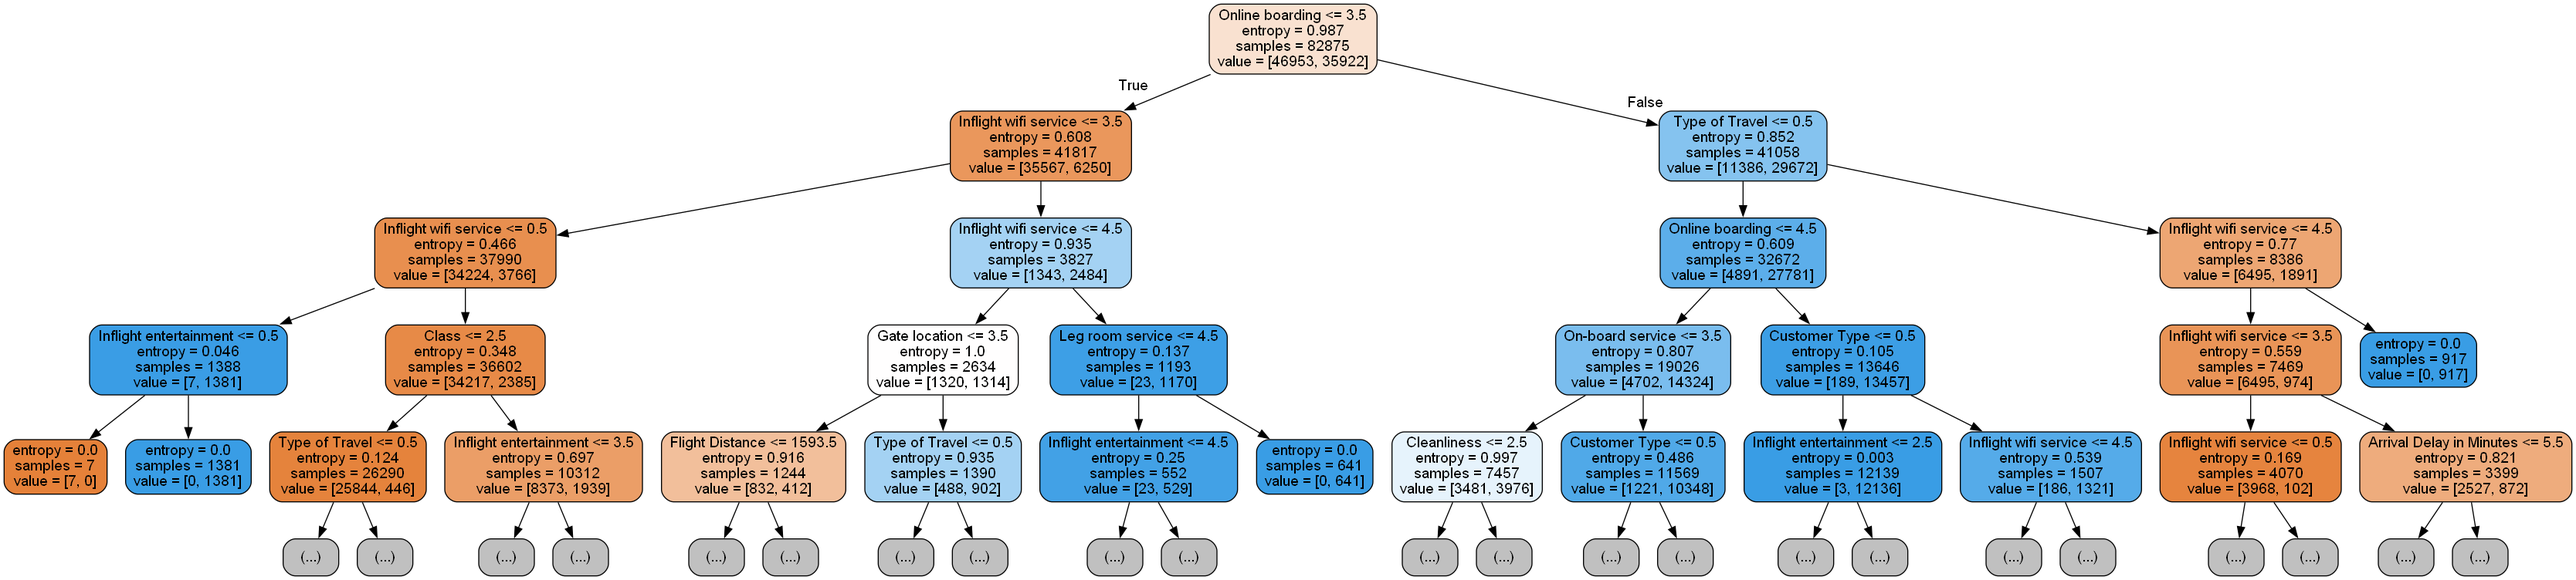
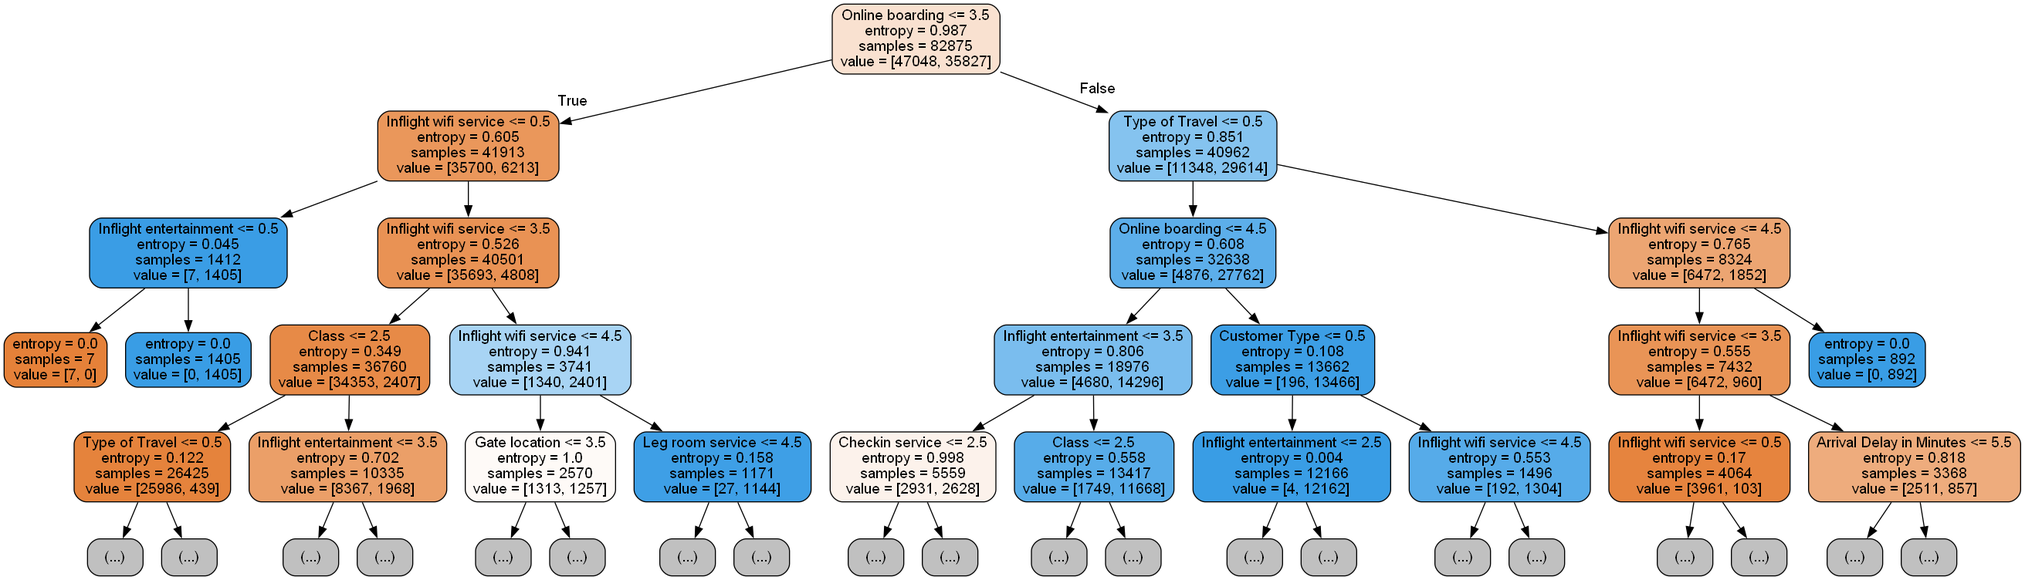
new

diff --git a/main.py b/main.py
@@ -42,7 +42,6 @@ def encoding_cat(data, max_count_unique=5, msg=True):
 
 
 if __name__ == '__main__':
-
     for dirname, _, filenames in os.walk('/input'):
         for filename in filenames:
             print(os.path.join(dirname, filename))
@@ -67,21 +66,16 @@ if __name__ == '__main__':
     X = train.drop(['Unnamed: 0', 'id', 'satisfaction'], axis=1)
     X.head()
     X_train, X_val, y_train, y_val = train_test_split(X, y, test_size=0.2)
-    decision_tree = tree.DecisionTreeClassifier(criterion='entropy', max_depth=10, random_state=SEED)
+    decision_tree = tree.DecisionTreeClassifier(criterion='entropy', max_depth=100, random_state=SEED)
     decision_tree.fit(X_train, y_train)
-    DecisionTreeClassifier(criterion='entropy', max_depth=10, random_state=15)
+    DecisionTreeClassifier(criterion='entropy', max_depth=100, random_state=15)
     with open("tree1.dot", 'w') as f:
-        f = export_graphviz(decision_tree, out_file=f, max_depth=4,
+        f = export_graphviz(decision_tree, out_file=f, max_depth=4,#4
                             impurity=True, feature_names=X_train.columns,
                             rounded=True, filled=True)
-    check_call(['dot','-Tpng','tree1.dot','-o','tree.png'])
+    check_call(['dot', '-Tpng', 'tree1.dot', '-o', 'tree.png'])
     img = Image.open("tree.png")
     draw = ImageDraw.Draw(img)
     img.save('sample-out.png')
     PImage("sample-out.png")
     decision_tree.score(X_val, y_val)
-
-
-
-
-

diff --git a/description.md b/description.md
@@ -1,0 +1,34 @@
+Decision Tree Classification
+https://www.youtube.com/watch?v=ZVR2Way4nwQ
+
+- Cho 1 tập các điển dũ liệu mẫu để phân tích 
+  
+![img.png](img.png)
+
+- Decision node:  chứa điều kiện để chia dữ liệu ra thành nhiều loại
+- Leaf node:  chứa loại đã được phân của dữ liệu
+
+![img_1.png](img_1.png)
+
+- Có rất nhiều cách chia khác nhau nhưng cách tối ưu nhất là chia để tìm đc Leaf node càng sớm càng tốt như ví dụ dưới
+
+![img_2.png](img_2.png)
+
+- Để đạt được điều này cần tính toán Information Gain, để tính Information Gain cần tính được Entropy
+
+![img_3.png](img_3.png)
+
+- Pi là tỉ lệ của class i 
+
+![img_4.png](img_4.png)
+
+- bên trên là ví dụ với root 
+- áp dụng vào các nhánh còn lại ta được:  
+
+![img_5.png](img_5.png)
+
+- Để tính Information Gain dùng công thức
+
+![img_7.png](img_7.png)
+
+- Dễ thấy IG1 > IG2 nên sẽ chọn IG2, sau đó cứ tiếp tục cho đến khi ko còn lại Decision node nào.
